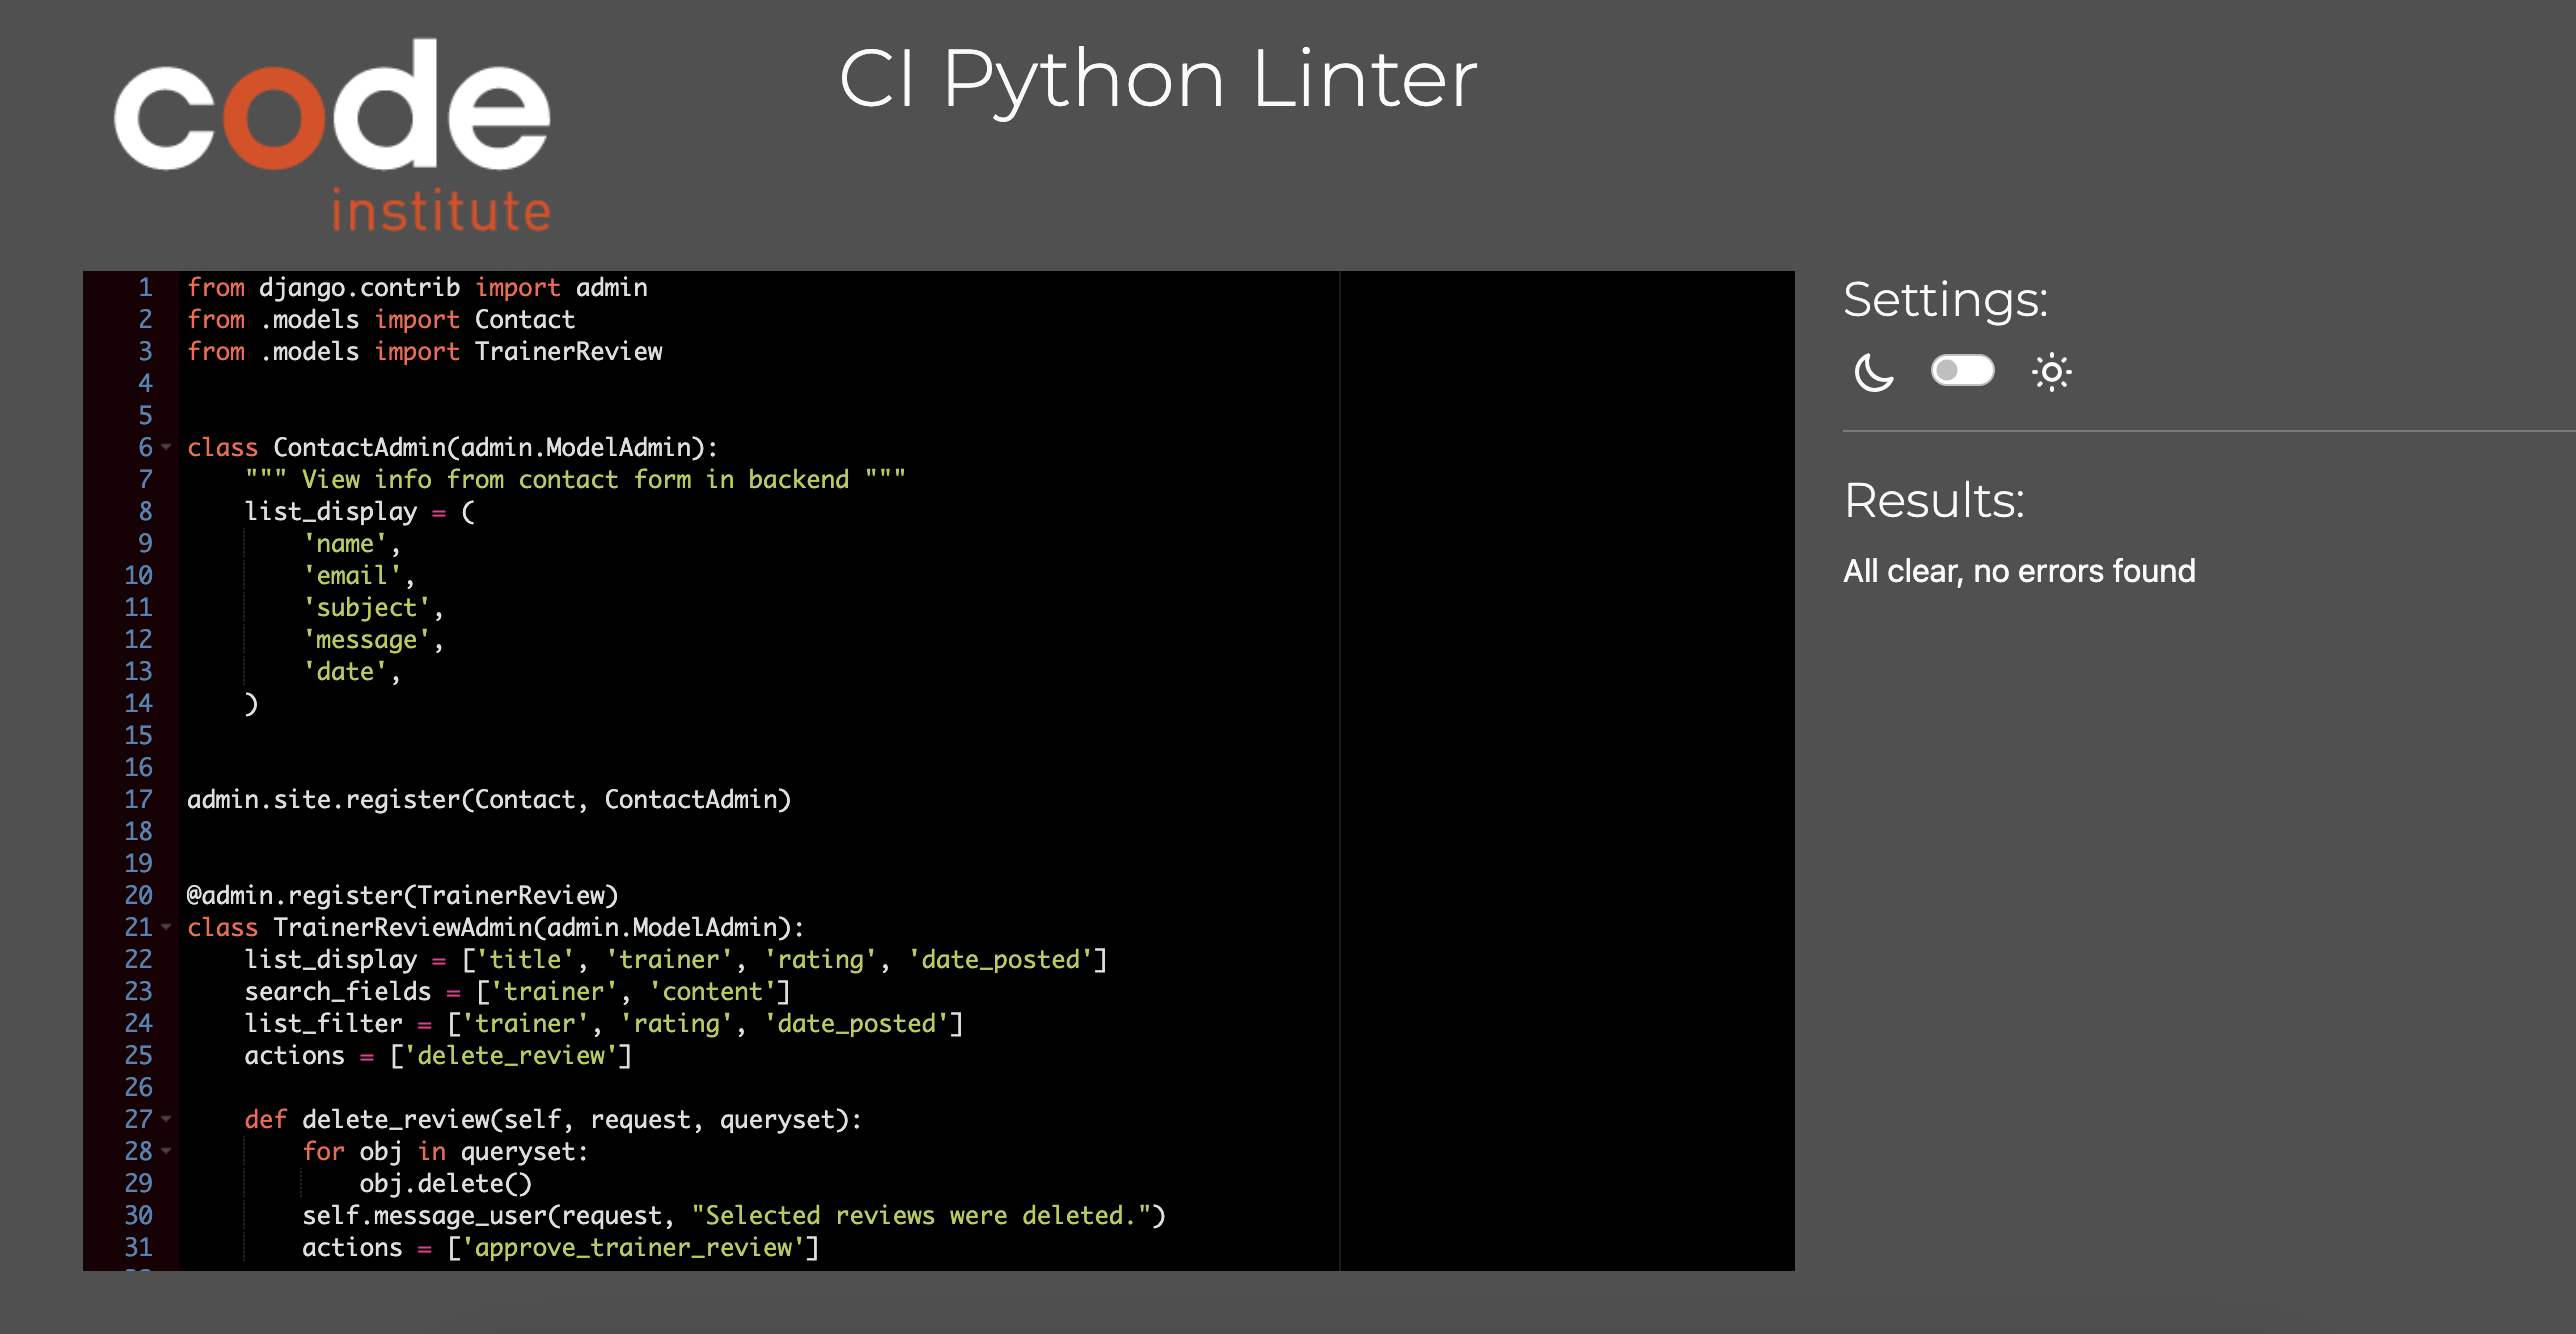
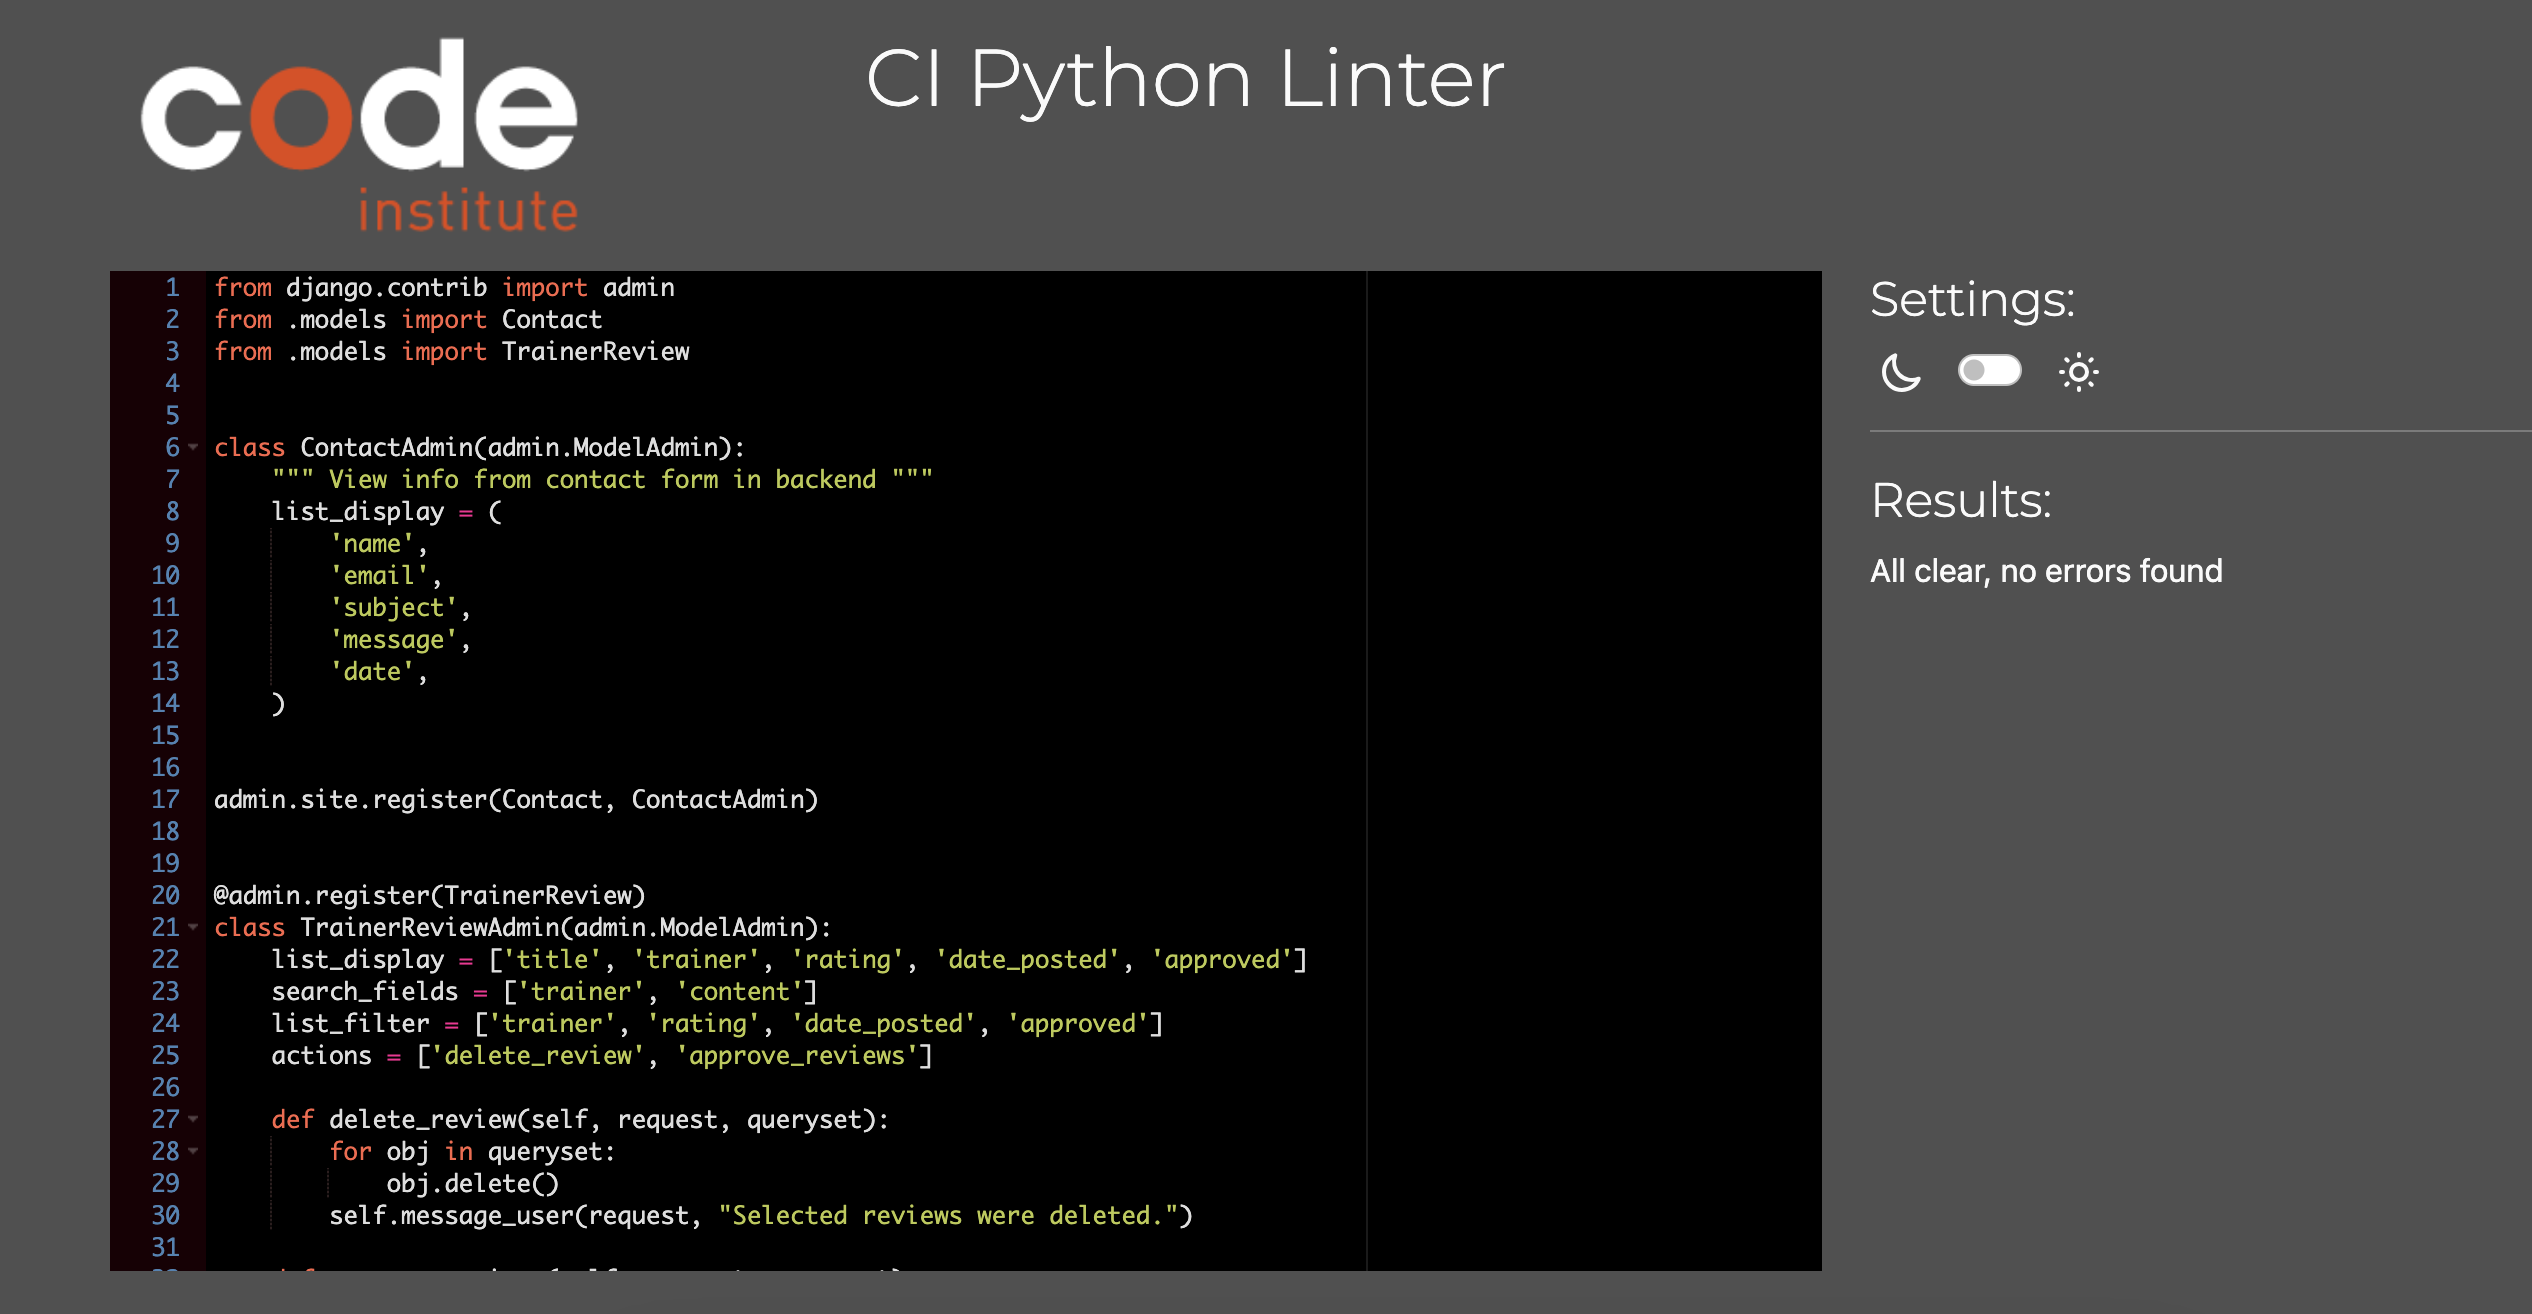
add text to read for linter views

diff --git a/README.md b/README.md
@@ -343,20 +343,20 @@ Custom 404 Page for the user if there is an error:
 Products are what is the main focus of the e-commerce website. Admin can add, edit, and delete a product, add related image, and descriptions - as well as competitions and reviews.
 
 CRUD
-Create: If the user is an authenticated superuser, they can add a new product by clicking the my account icon in the top right corner and click on Product Management. They can also create competitions for their users to join as well as reviews of personal trainers.
-Read: All users can view all the product and read about them in the product navbar. All users can read the competitions offered and read reviews of personal trainers.
-Update: Only admin can update the products and competitions.
-Delete: Only admin can delete the products, competitions, & reviews.
+*Create: If the user is an authenticated superuser, they can add a new product by clicking the my account icon in the top right corner and click on Product Management. They can also create competitions for their users to join as well as reviews of personal trainers.
+*Read: All users can view all the product and read about them in the product navbar. All users can read the competitions offered and read reviews of personal trainers.
+*Update: Only admin can update the products and competitions.
+*Delete: Only admin can delete the products, competitions, & reviews.
 
 ## Reviews
 
 Users can leave a review about personal training.
 
 CRUD
-Create: Any user can write a review about a personal trainer. This is because oftentimes personal trainers work at more than one facility, so I wanted to leave it open because maybe the user knows a personal trainer previously or through other means.
-Read: All users, even those who are not logged in, can read all reviews written about the personal trainer.
-Update: Only the admin can update review - but users can contact admin via the contact form.
-Delete: Only the admin can approve and post or delete a review.
+*Create: Any user can write a review about a personal trainer. This is because oftentimes personal trainers work at more than one facility, so I wanted to leave it open because maybe the user knows a personal trainer previously or through other means.
+*Read: All users, even those who are not logged in, can read all reviews written about the personal trainer.
+*Update: Only the admin can update review - but users can contact admin via the contact form.
+*Delete: Only the admin can approve and post or delete a review.
 
 # Testing
 
@@ -392,7 +392,7 @@ The site was constantly tested during the process of creating the site in the Gi
 | Issue with reviews page, that I forgot to add admin approval first so it would automatically post | Changed admin settings so admin could approve post first|
 | Issue importing fixtures when I had to create my own - this was very tedious | Had to do it all over again |
 | Issues from stripe that webhooks wasn't working when creating endpoints | Had to contact them and they said there had been a temporary issue in those who selected Sweden as their location, but this was fixed in a few days |
-| Issue of admin approval not working prior to posting | |
+| Issue of admin approval not working prior to posting | In my models I forgot the approval field so that once in admin I could change it to true|
 
 * Example of format error on smaller screens for the cart:
 ![Cart Error](./media/carterror.jpg)
@@ -453,72 +453,108 @@ All work passed with the exeception of a few lines that were too long. However, 
 
 ### Lighthouse
 
-![Lighthouse](./media/lighthouse./png)
+![Lighthouse](./media/lighthouse.png)
 
 ### Python Linters
 
-Bag APP
+Bag App
 
+Bag Tools:
 ![Bag Tools](./media/bagbagtools.png)
+Bag Contexts:
 ![Bag Contexts](./media/bagcontexts.png)
+Bag Urls:
 ![Bag Urls](./media/bagurls.png)
+Bag Views:
 ![Bag Views](./media/bagviews.png)
 
-Products APP
+Products App
 
+Product Admin:
 ![Products Admin](./media/productsadmin.png)
+Product Forms:
 ![Products Forms](./media/productsforms.png)
+Product Models:
 ![Products Models](./media/productsmodels.png)
+Product Views:
 ![Products Views](./media/productsviews.png)
+Product Widgets:
 ![Products Widgets](./media/productswidgets.png)
+Product Urls: 
 ![Products Urls](./media/productsurls.png)
 
-Checkout APP
+Checkout App
 
+Checkout Admin:
 ![Checkout Admin](./media/checkoutadmin.png)
+Checkout Forms:
 ![Checkout Forms](./media/checkoutforms.png)
+Checkout Models:
 ![Checkout Models](./media/checkoutmodels.png)
+Checkout Views:
 ![Checkout Views](./media/checkoutviews.png)
+Checkout Urls:
 ![Checkout Urls](./media/checkouturls.png)
+Checkout Signals:
 ![Checkout Signals](./media/checkoutsignals.png)
+Checkout Webhook Handler:
 ![Checkout Webhook Handler](./media/checkoutwebhookhandler.png)
+Checkout Webhooks:
 ![Checkout Webhooks](./media/checkoutwebhooks.png)
 
 
-Profile APP
+Profile App
 
+Profile Custom Storage:
 ![Profile Custom Storage ](./media/profilecustomstorages.png)
+Profile Forms:
 ![Profile Forms](./media/profileforms.png)
+Profile Models:
 ![Profile Models](./media/profilemodels.png)
+Profile Views:
 ![Profile Views](./media/profileviews.png)
+Profile Urls:
 ![Profile Urls](./media/profileurls.png)
 
-Home APP
+Home App
 
+Home Views:
 ![Home Views](./media/homeviews.png)
+Home Urls:
 ![Home Urls](./media/homeurls.png)
 
-Competitions APP
+Competitions App
 
+Competition Admin:
 ![Competition Admin](./media/competitionadmin.png)
+Competition Forms:
 ![Competition Forms](./media/competitionforms.png)
+Competition Models:
 ![Competition Models](./media/competitionmodels.png)
+Competition Views:
 ![Competition Views](./media/competitionviews.png)
+Competition Urls:
 ![Competition Urls](./media/competitionurls.png)
 
-Connect APP
+Connect App
 
+Connect Admin:
 ![Connect Admin](./media/connectadmin.png)
+Connect Forms:
 ![Connect Forms](./media/connectforms.png)
+Connect Models:
 ![Connect Models](./media/connectmodels.png)
+Connect Views:
 ![Connect Views](./media/connectviews.png)
+Connect Urls:
 ![Connect Urls](./media/connecturls.png)
 
-Beyond the Barbell APP
+Beyond the Barbell App
 
+Beyond the Barbell Views:
 ![Beyond the Barbell Views](./media/bbviews.png)
+Beyond the Barbell Urls:
 ![Beyond the Barbell Urls](./media/bburls.png)
-
 
 
 
